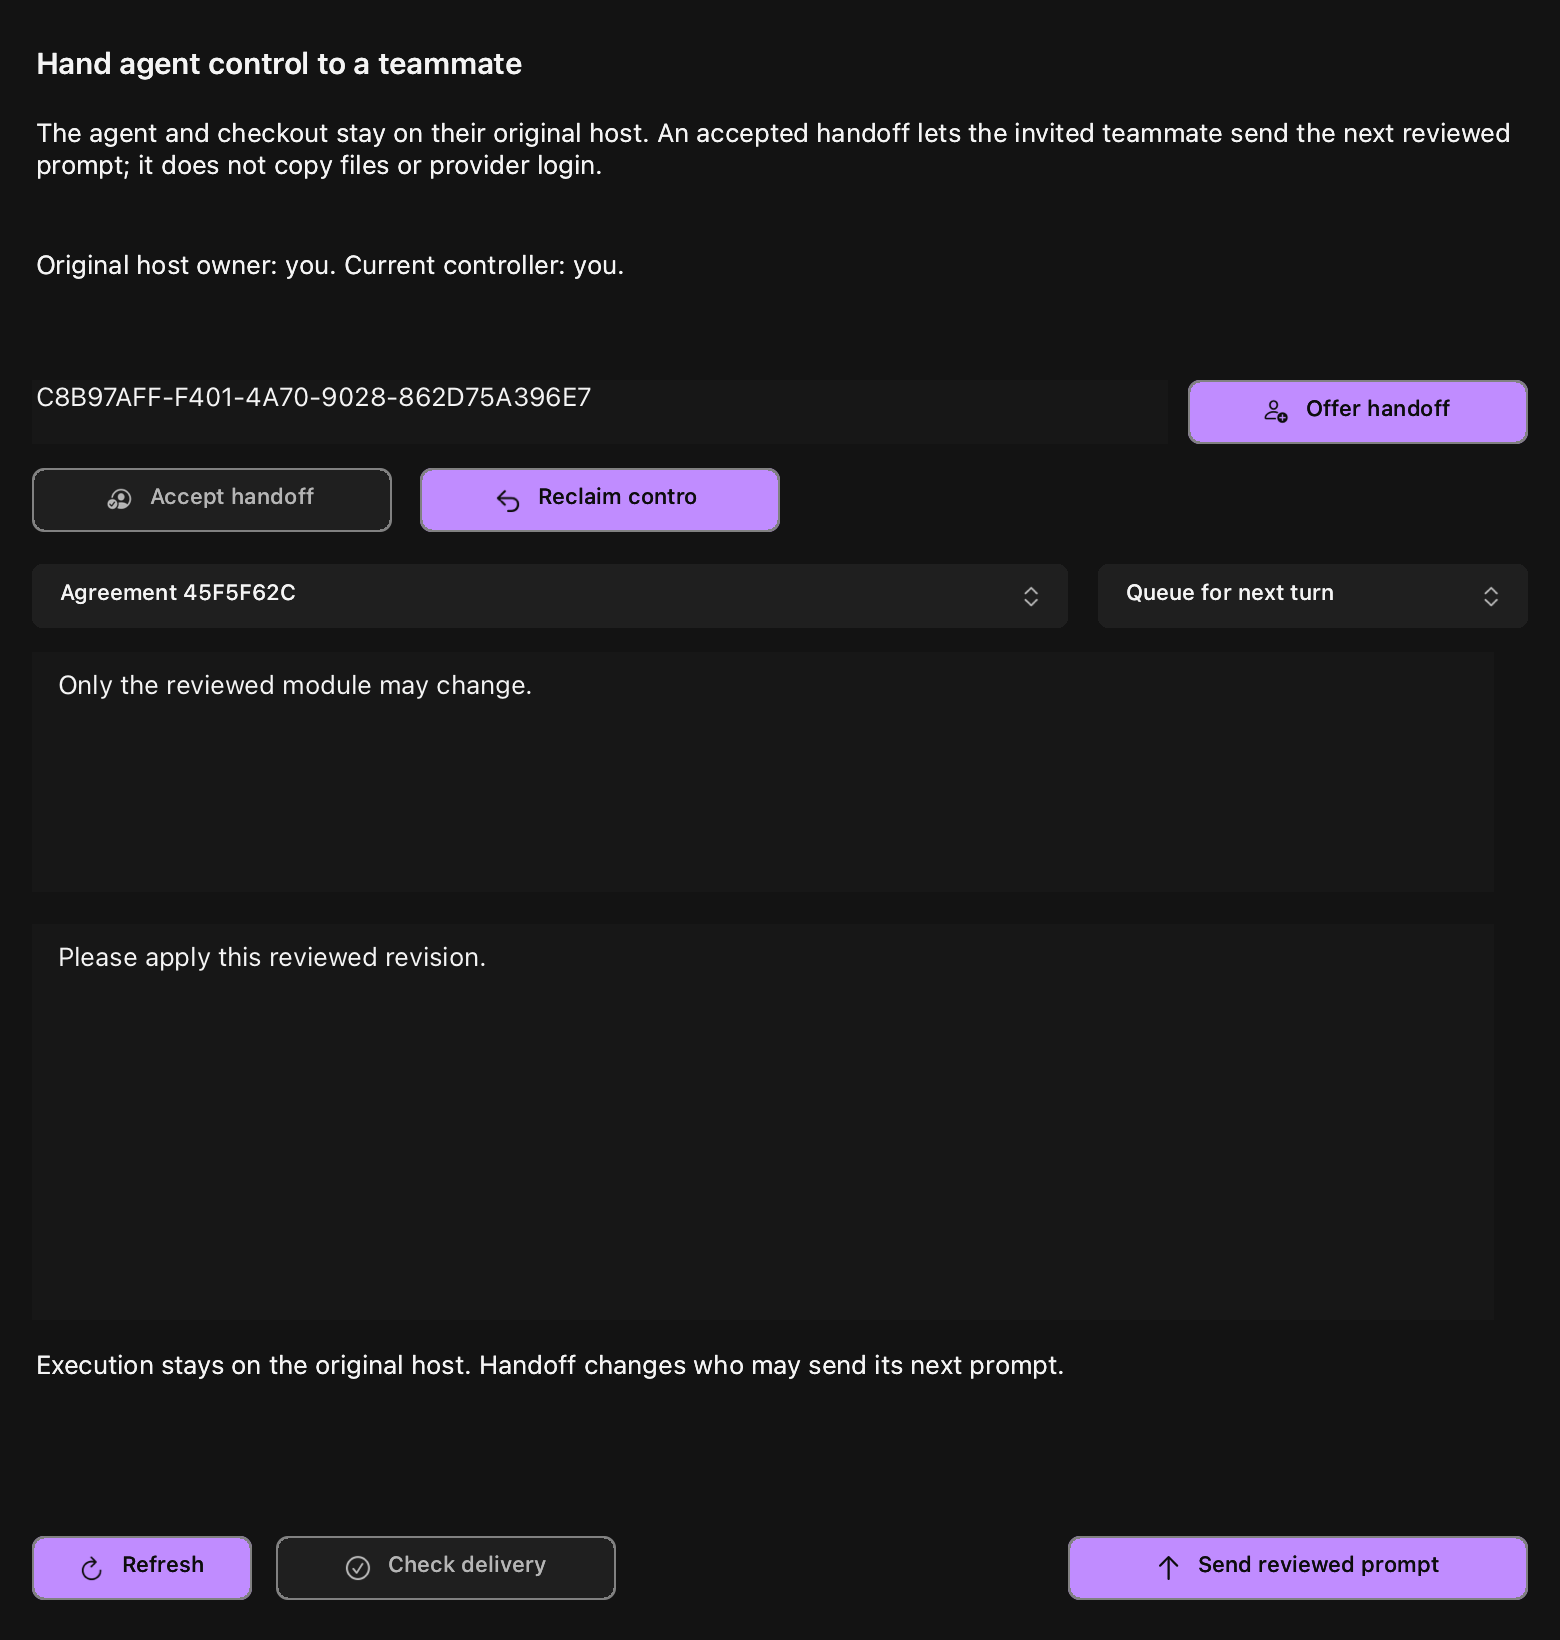
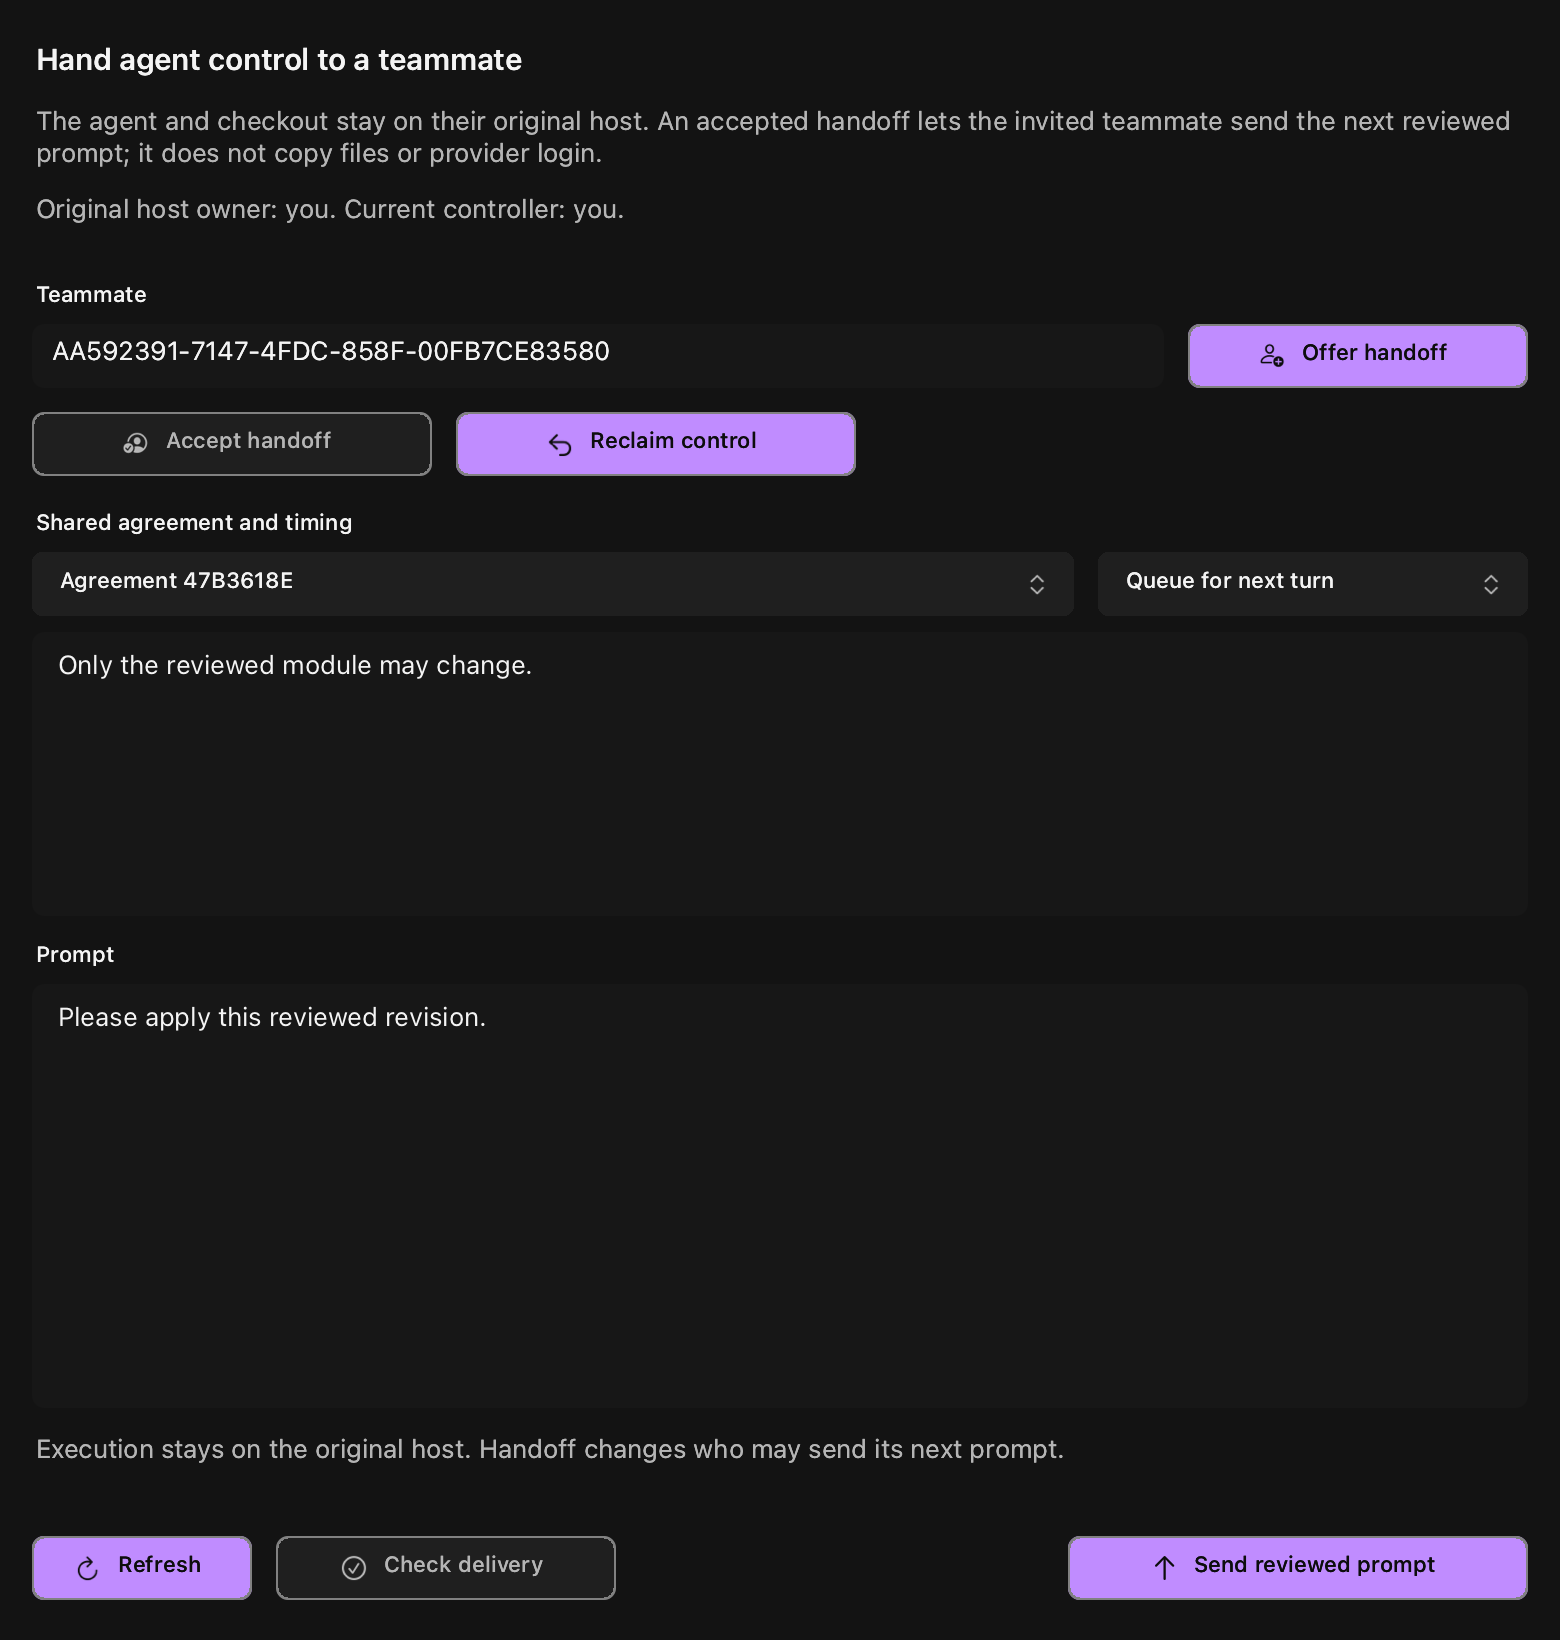
style(collaboration): label and tighten the agent handoff dialog
Section labels for teammate, agreement and prompt; secondary text for
explanations and status; rounded body-surface wells behind the recipient
field and editors, with the field vertically centred; no scroller strip;
denser rows. Light and dark renders are refreshed.

diff --git a/Sources/ContinuumRevived/App/Collaboration/SharedAreaHandoffView.swift b/Sources/ContinuumRevived/App/Collaboration/SharedAreaHandoffView.swift
@@ -42,6 +42,9 @@ final class SharedAreaHandoffView: NSView, NSTextViewDelegate, NSTextFieldDelega
     private let heading = NSTextField(labelWithString: "Hand agent control to a teammate")
     private let explanation = NSTextField(wrappingLabelWithString: "The agent and checkout stay on their original host. An accepted handoff lets the invited teammate send the next reviewed prompt; it does not copy files or provider login.")
     private let controlLabel = NSTextField(wrappingLabelWithString: "Checking current control…")
+    private let recipientLabel = NSTextField(labelWithString: "Teammate")
+    private let contextLabel = NSTextField(labelWithString: "Shared agreement and timing")
+    private let promptLabel = NSTextField(labelWithString: "Prompt")
     private let recipient = NSTextField(string: "")
     private let offer = ComposerActionButton(presentation: CollaborationHubView.action("Offer handoff", symbol: "person.badge.plus"))
     private let accept = ComposerActionButton(presentation: CollaborationHubView.action("Accept handoff", symbol: "person.crop.circle.badge.checkmark"))
@@ -71,7 +74,9 @@ final class SharedAreaHandoffView: NSView, NSTextViewDelegate, NSTextFieldDelega
         super.init(frame: .init(x: 0, y: 0, width: 780, height: 820))
         heading.font = .token(.title)
         for label in [explanation, controlLabel, status] { label.font = .token(.body); label.isSelectable = true }
-        recipient.font = .token(.body); recipient.isBezeled = false; recipient.drawsBackground = true
+        for label in [recipientLabel, contextLabel, promptLabel] { label.font = .token(.label) }
+        // Fields and editors are transparent; `draw` paints their wells.
+        recipient.font = .token(.body); recipient.isBezeled = false; recipient.drawsBackground = false; recipient.focusRingType = .none
         recipient.delegate = self
         recipient.placeholderString = "Teammate collaboration ID"; recipient.setAccessibilityLabel("Handoff recipient collaboration ID")
         configure(contextReader, scroll: contextScroll, editable: false, label: "Reviewed shared agreement")
@@ -87,7 +92,7 @@ final class SharedAreaHandoffView: NSView, NSTextViewDelegate, NSTextFieldDelega
                                    (check, #selector(checkDelivery)), (send, #selector(sendPrompt))] {
             button.target = self; button.action = selector
         }
-        for child in [heading, explanation, controlLabel, recipient, offer, accept, reclaim, contextChoice, modeChoice,
+        for child in [heading, explanation, controlLabel, recipientLabel, contextLabel, promptLabel, recipient, offer, accept, reclaim, contextChoice, modeChoice,
                       contextScroll, promptScroll, status, refresh, check, send] { addSubview(child) }
         do {
             let draft = try model.draft(object: object)
@@ -131,7 +136,9 @@ final class SharedAreaHandoffView: NSView, NSTextViewDelegate, NSTextFieldDelega
         view.textContainer?.containerSize = .init(width: 0, height: CGFloat.greatestFiniteMagnitude)
         view.textContainerInset = .init(width: Space.m, height: Space.m)
         view.font = .token(.body); view.setAccessibilityLabel(label)
-        scroll.documentView = view; scroll.hasVerticalScroller = true; scroll.drawsBackground = false; scroll.borderType = .noBorder
+        view.drawsBackground = false
+        scroll.documentView = view; scroll.hasVerticalScroller = true; scroll.autohidesScrollers = true
+        scroll.drawsBackground = false; scroll.borderType = .noBorder
     }
     private func reload() {
         guard !stopped else { return }
@@ -205,30 +212,49 @@ final class SharedAreaHandoffView: NSView, NSTextViewDelegate, NSTextFieldDelega
             }
         }
     }
-    override func draw(_ dirtyRect: NSRect) { SurfaceToken.panel.color.nsColor(in: self).setFill(); bounds.fill() }
+    override func draw(_ dirtyRect: NSRect) {
+        SurfaceToken.panel.color.nsColor(in: self).setFill(); bounds.fill()
+        // Editable wells use the same body surface as the hub's text fields.
+        SurfaceToken.tileBody.color.nsColor(in: self).setFill()
+        for well in [recipientWell, contextScroll.frame, promptScroll.frame] {
+            NSBezierPath(roundedRect: well, xRadius: Radius.card, yRadius: Radius.card).fill()
+        }
+    }
+    private var recipientWell = NSRect.zero
     override func viewDidChangeEffectiveAppearance() { super.viewDidChangeEffectiveAppearance(); applyAppearance() }
     private func applyAppearance() {
-        for label in [heading, explanation, controlLabel, status, recipient] { label.textColor = TextToken.textPrimary.color.nsColor(in: self) }
-        recipient.backgroundColor = SurfaceToken.tileBody.color.nsColor(in: self)
-        for view in [contextReader, prompt] { view.textColor = TextToken.textPrimary.color.nsColor(in: self); view.backgroundColor = SurfaceToken.tileBody.color.nsColor(in: self) }
+        for label in [heading, recipientLabel, contextLabel, promptLabel, recipient] { label.textColor = TextToken.textPrimary.color.nsColor(in: self) }
+        for label in [explanation, controlLabel, status] { label.textColor = TextToken.textSecondary.color.nsColor(in: self) }
+        for view in [contextReader, prompt] { view.textColor = TextToken.textPrimary.color.nsColor(in: self) }
         needsDisplay = true
     }
     override func layout() {
         super.layout()
-        let margin = CGFloat(Space.xl), width = max(1, bounds.width - 2 * margin)
+        let margin = CGFloat(Space.xl), width = max(1, bounds.width - 2 * margin), row: CGFloat = 32
+        var moved = false
         func place(_ view: NSView, _ y: CGFloat, _ height: CGFloat, x: CGFloat = 0, w: CGFloat? = nil) {
             let next = NSRect(x: margin + x, y: y, width: w ?? width, height: height)
-            if view.frame != next { view.frame = next }
+            if view.frame != next { view.frame = next; moved = true }
         }
-        place(heading, 22, 28); place(explanation, 58, 60); place(controlLabel, 124, 54)
-        place(recipient, 190, 32, w: width - 180); place(offer, 190, 32, x: width - 170, w: 170)
-        place(accept, 234, 32, w: 180); place(reclaim, 234, 32, x: 194, w: 180)
-        place(contextChoice, 282, 32, w: width - 230); place(modeChoice, 282, 32, x: width - 215, w: 215)
-        place(contextScroll, 326, max(120, (bounds.height - 600) / 2))
-        let promptTop = max(462, (bounds.height - 600) / 2 + 338)
-        place(promptScroll, promptTop, max(110, bounds.height - promptTop - 160))
-        place(status, bounds.height - 146, 84)
-        place(refresh, bounds.height - 52, 32, w: 110); place(check, bounds.height - 52, 32, x: 122, w: 170)
-        place(send, bounds.height - 52, 32, x: width - 230, w: 230)
+        place(heading, 20, 28); place(explanation, 52, 40); place(controlLabel, 96, 36)
+        place(recipientLabel, 140, 18)
+        let well = NSRect(x: margin, y: 162, width: width - 182, height: row)
+        if recipientWell != well { recipientWell = well; moved = true }
+        place(recipient, well.midY - 11, 22, x: CGFloat(Space.m), w: well.width - 2 * CGFloat(Space.m))
+        place(offer, 162, row, x: width - 170, w: 170)
+        place(accept, 206, row, w: 200); place(reclaim, 206, row, x: 212, w: 200)
+        place(contextLabel, 254, 18)
+        place(contextChoice, 276, row, w: width - 227); place(modeChoice, 276, row, x: width - 215, w: 215)
+        // Below the fixed rows: agreement reader, prompt editor, status, actions.
+        let statusTop = bounds.height - 104, flexible = max(0, statusTop - 12 - 316 - 12 - 22)
+        let contextHeight = max(96, (flexible * 0.4).rounded())
+        place(contextScroll, 316, contextHeight)
+        place(promptLabel, 316 + contextHeight + 12, 18)
+        let promptTop = 316 + contextHeight + 34
+        place(promptScroll, promptTop, max(96, statusTop - 12 - promptTop))
+        place(status, statusTop, 40)
+        place(refresh, bounds.height - 52, row, w: 110); place(check, bounds.height - 52, row, x: 122, w: 170)
+        place(send, bounds.height - 52, row, x: width - 230, w: 230)
+        if moved { needsDisplay = true }
     }
 }
